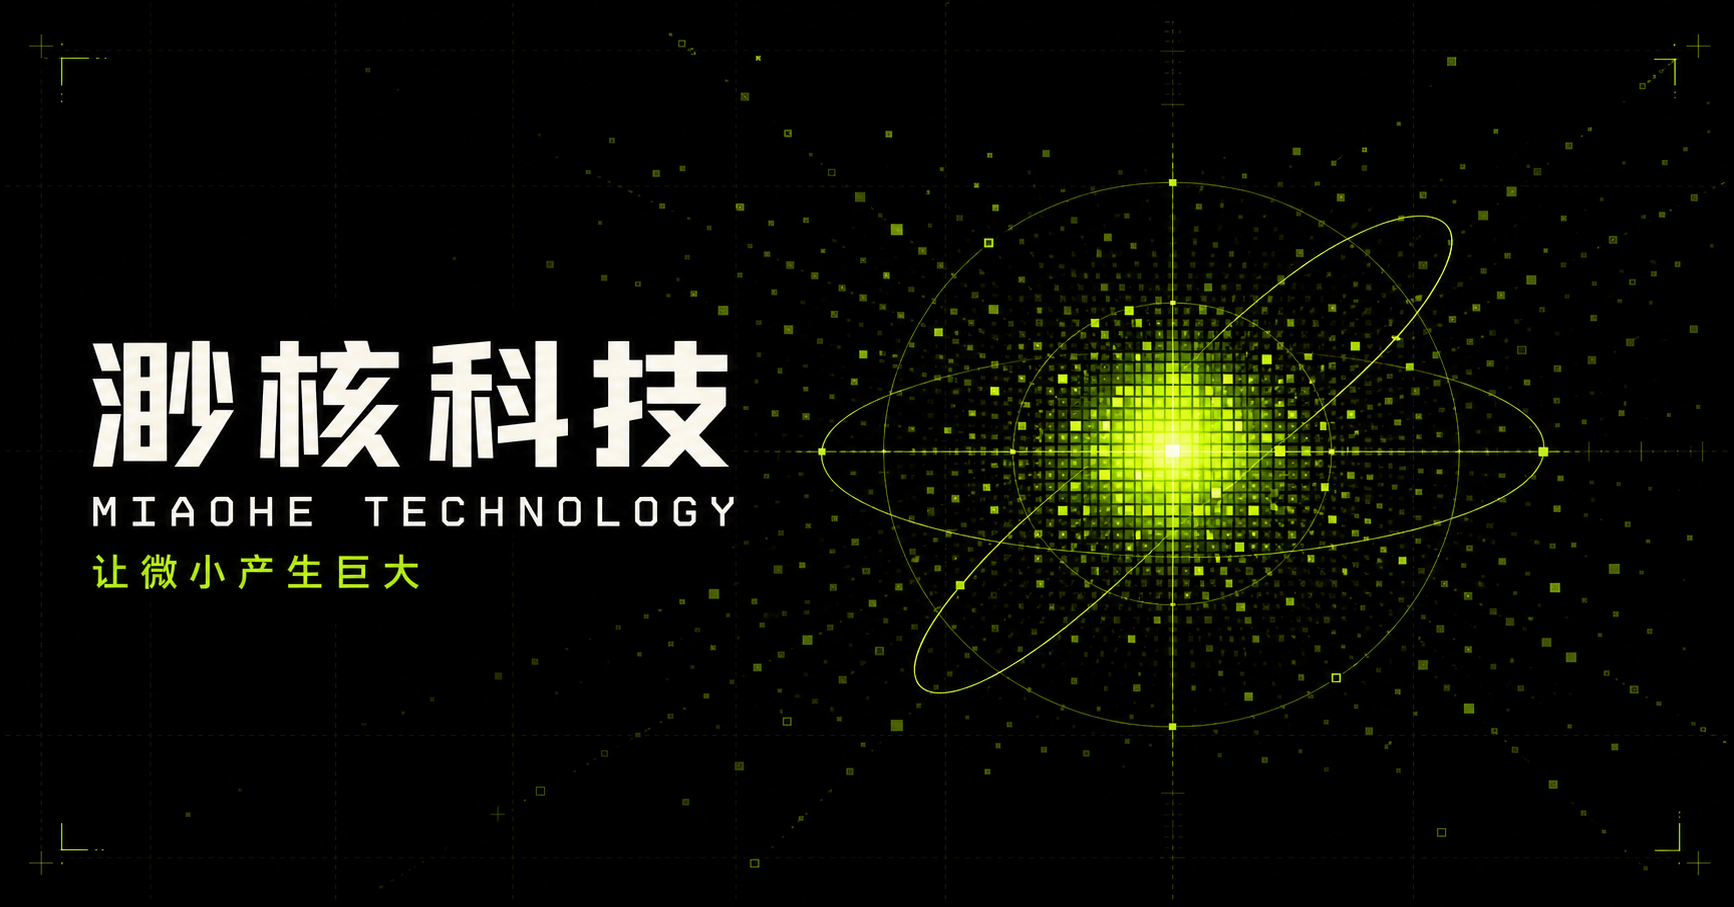
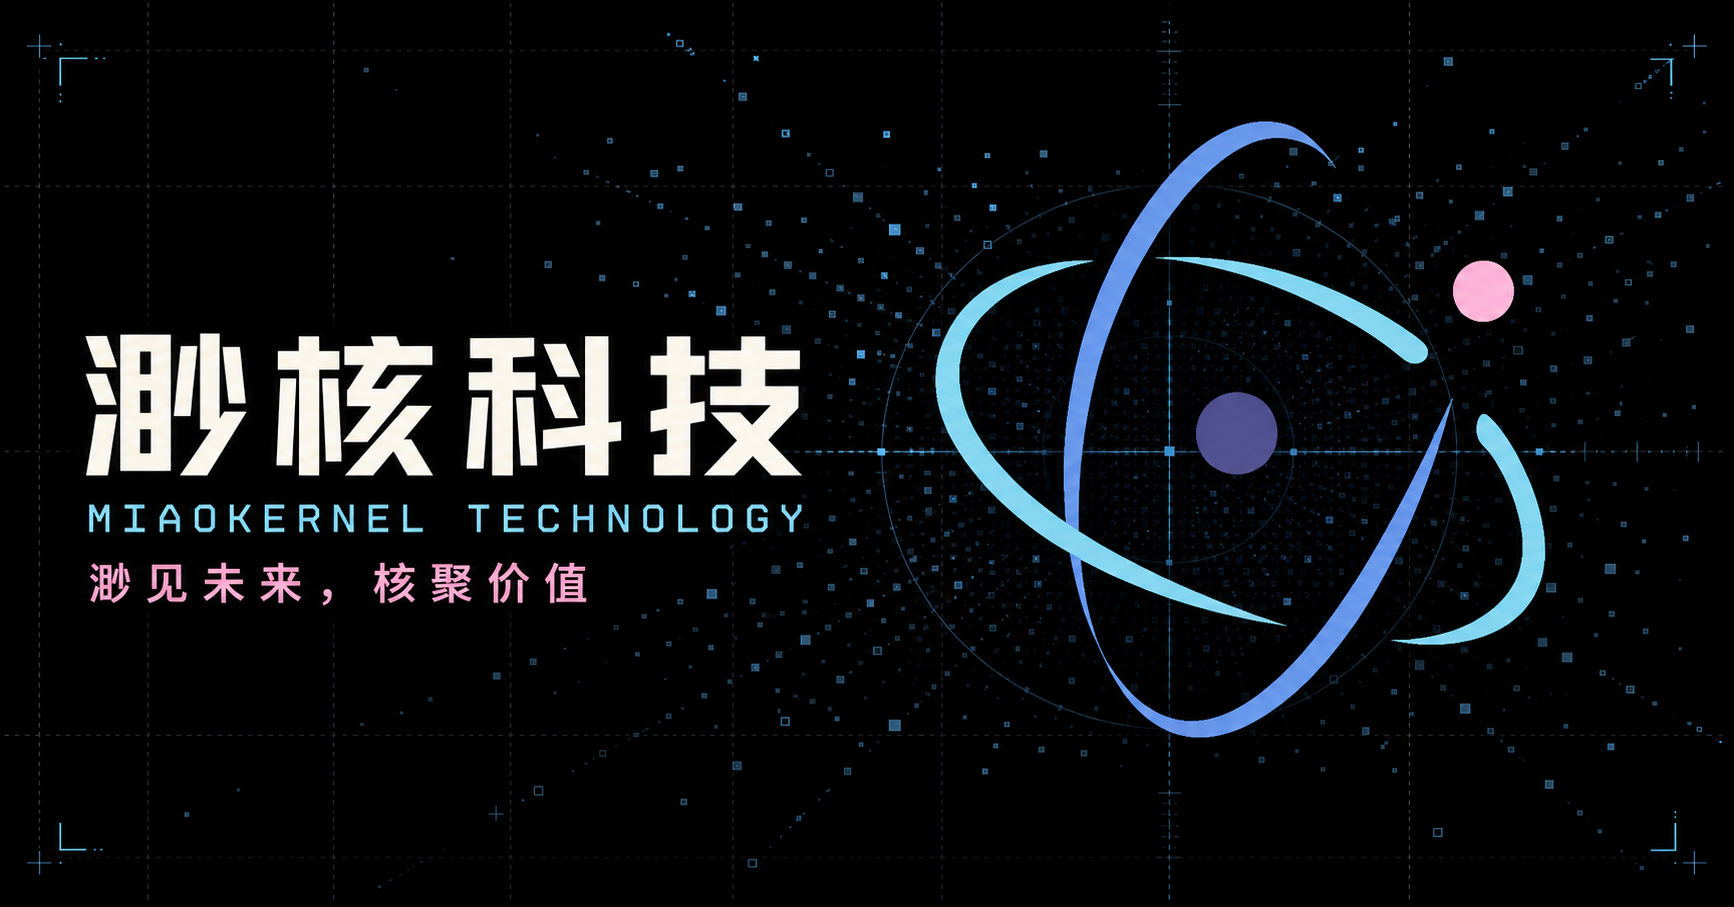
Apply official MiaoKernel branding

diff --git a/app/globals.css b/app/globals.css
@@ -3,7 +3,7 @@
 :root {
   --ink: #050505;
   --paper: #f2f0e9;
-  --lime: #bcff2d;
+  --lime: #90dbf2;
   --line: rgba(255, 255, 255, 0.16);
 }
 
@@ -24,15 +24,14 @@ button { font: inherit; }
   height: 82px;
   padding: 0 4vw;
   color: #fff;
-  mix-blend-mode: difference;
+  border-bottom: 1px solid rgba(255,255,255,.1);
+  background: rgba(5,5,5,.82);
+  backdrop-filter: blur(16px);
 }
 
 .brand { display: inline-flex; align-items: center; gap: 12px; font-size: 16px; font-weight: 700; line-height: 1; letter-spacing: .08em; }
 .brand small { display: block; margin-top: 5px; font-family: Consolas, monospace; font-size: 7px; font-weight: 400; letter-spacing: .18em; opacity: .65; }
-.brand-mark { position: relative; display: grid; width: 27px; height: 27px; grid-template-columns: repeat(3, 1fr); gap: 2px; transform: rotate(45deg); }
-.brand-mark i { background: currentColor; }
-.brand-mark i:nth-child(2) { transform: scale(.5); }
-.brand-mark i:nth-child(3) { transform: scale(.22); }
+.brand-logo { display: block; width: 34px; height: 34px; object-fit: contain; flex: 0 0 auto; }
 
 .site-header nav { display: flex; align-items: center; gap: 34px; font-family: Consolas, monospace; font-size: 11px; letter-spacing: .06em; }
 .site-header nav a { position: relative; padding: 8px 0; }
@@ -45,7 +44,7 @@ button { font: inherit; }
 .hero { position: relative; min-height: 100svh; overflow: hidden; color: #fff; background: var(--ink); }
 .particle-field, .hero-grid { position: absolute; inset: 0; width: 100%; height: 100%; }
 .hero-grid { opacity: .2; background-image: linear-gradient(rgba(255,255,255,.08) 1px, transparent 1px), linear-gradient(90deg, rgba(255,255,255,.08) 1px, transparent 1px); background-size: 42px 42px; mask-image: radial-gradient(circle at 66% 48%, #000, transparent 63%); }
-.hero::before { content: ""; position: absolute; inset: 0; background: radial-gradient(circle at 68% 48%, rgba(188,255,45,.08), transparent 28%), linear-gradient(180deg, transparent 65%, #050505 100%); }
+.hero::before { content: ""; position: absolute; inset: 0; background: radial-gradient(circle at 68% 48%, rgba(144,219,242,.1), transparent 28%), linear-gradient(180deg, transparent 65%, #050505 100%); }
 .hero-copy { position: relative; z-index: 2; display: flex; flex-direction: column; justify-content: space-between; min-height: 100svh; padding: 120px 4vw 64px; }
 .eyebrow { display: flex; justify-content: space-between; font: 10px/1.5 Consolas, monospace; letter-spacing: .12em; text-transform: uppercase; }
 .hero-eyebrow { width: min(570px, 50vw); margin-left: auto; color: rgba(255,255,255,.58); }
@@ -61,12 +60,12 @@ button { font: inherit; }
 .round-link b { font-size: 18px; font-weight: 400; }
 .round-link:hover { color: var(--ink); background: var(--lime); border-color: var(--lime); transform: rotate(-12deg); }
 .orbital-core { position: absolute; z-index: 1; top: 50%; left: 69%; width: clamp(230px, 32vw, 520px); aspect-ratio: 1; transform: translate(-50%,-50%); }
-.orbit { position: absolute; inset: 5%; border: 1px solid rgba(188,255,45,.38); border-radius: 50%; animation: orbitSpin 16s linear infinite; }
+.orbit { position: absolute; inset: 5%; border: 1px solid rgba(144,219,242,.42); border-radius: 50%; animation: orbitSpin 16s linear infinite; }
 .orbit::before, .orbit::after { content: ""; position: absolute; width: 7px; height: 7px; background: var(--lime); box-shadow: 0 0 16px var(--lime); }
 .orbit::before { top: 13%; left: 14%; }
 .orbit::after { right: 7%; bottom: 25%; }
 .orbit-two { inset: 23%; transform: rotate(65deg); border-style: dashed; animation-direction: reverse; animation-duration: 9s; }
-.core-dot { position: absolute; inset: 44%; background: var(--lime); box-shadow: 0 0 45px 12px rgba(188,255,45,.35); animation: corePulse 2.4s ease-in-out infinite; }
+.core-dot { position: absolute; inset: 44%; background: var(--lime); box-shadow: 0 0 45px 12px rgba(144,219,242,.38); animation: corePulse 2.4s ease-in-out infinite; }
 @keyframes orbitSpin { to { transform: rotate(360deg); } }
 @keyframes corePulse { 50% { transform: scale(1.45); opacity: .65; } }
 .ticker { position: absolute; z-index: 3; inset: auto 0 0; overflow: hidden; border-top: 1px solid rgba(255,255,255,.12); color: rgba(255,255,255,.34); font: 9px/30px Consolas, monospace; white-space: nowrap; }
@@ -94,13 +93,13 @@ button { font: inherit; }
 .system-section { position: relative; min-height: 310svh; color: #fff; background: var(--ink); }
 .system-sticky { position: sticky; top: 0; z-index: 1; height: 100svh; overflow: hidden; }
 .system-grid { position: absolute; inset: 0; opacity: .28; background-image: linear-gradient(var(--line) 1px, transparent 1px), linear-gradient(90deg, var(--line) 1px, transparent 1px); background-size: 6.25vw 6.25vw; mask-image: radial-gradient(circle, #000 35%, transparent 75%); }
-.system-sticky::before { content: ""; position: absolute; inset: 0; background: radial-gradient(circle at center, rgba(188,255,45,.08), transparent 35%); }
+.system-sticky::before { content: ""; position: absolute; inset: 0; background: radial-gradient(circle at center, rgba(144,219,242,.1), transparent 35%); }
 .system-core { position: absolute; top: 50%; left: 50%; width: min(44vw, 570px); aspect-ratio: 1; transform: translate(-50%,-50%); transition: transform 1.2s cubic-bezier(.16,1,.3,1); }
-.core-halo { position: absolute; inset: 4%; border: 1px solid rgba(188,255,45,.34); border-radius: 50%; box-shadow: inset 0 0 60px rgba(188,255,45,.03); transition: border-radius .8s, transform .8s; }
+.core-halo { position: absolute; inset: 4%; border: 1px solid rgba(144,219,242,.38); border-radius: 50%; box-shadow: inset 0 0 60px rgba(144,219,242,.04); transition: border-radius .8s, transform .8s; }
 .core-halo::before, .core-halo::after { content: ""; position: absolute; inset: 12%; border: 1px dashed rgba(255,255,255,.2); border-radius: inherit; animation: orbitSpin 20s linear infinite; }
 .core-halo::after { inset: 31%; animation-direction: reverse; animation-duration: 11s; }
 .core-cube { position: absolute; top: 50%; left: 50%; display: grid; grid-template-columns: repeat(5, 1fr); gap: 5px; width: 96px; transform: translate(-50%,-50%) rotate(45deg); transition: transform .8s; }
-.core-cube i { aspect-ratio: 1; background: var(--lime); opacity: calc(.22 + var(--i, .5)); box-shadow: 0 0 9px rgba(188,255,45,.22); }
+.core-cube i { aspect-ratio: 1; background: var(--lime); opacity: calc(.22 + var(--i, .5)); box-shadow: 0 0 9px rgba(144,219,242,.25); }
 .core-cube i:nth-child(3n) { opacity: .3; }
 .core-cube i:nth-child(4n) { transform: scale(.45); }
 .core-cross { position: absolute; top: 50%; left: 50%; background: rgba(255,255,255,.18); }
@@ -138,8 +137,8 @@ button { font: inherit; }
 @keyframes marquee { to { transform: translateX(-50%); } }
 
 .contact { position: relative; min-height: 100svh; overflow: hidden; padding: 110px 4vw 38px; color: #fff; background: var(--ink); }
-.contact-glow { position: absolute; right: -8vw; bottom: -20vw; width: 62vw; aspect-ratio: 1; border: 1px solid rgba(188,255,45,.3); border-radius: 50%; box-shadow: 0 0 160px rgba(188,255,45,.08), inset 0 0 90px rgba(188,255,45,.04); }
-.contact-glow::before, .contact-glow::after { content: ""; position: absolute; inset: 18%; border: 1px dashed rgba(188,255,45,.18); border-radius: 50%; animation: orbitSpin 28s linear infinite; }
+.contact-glow { position: absolute; right: -8vw; bottom: -20vw; width: 62vw; aspect-ratio: 1; border: 1px solid rgba(144,219,242,.32); border-radius: 50%; box-shadow: 0 0 160px rgba(144,219,242,.1), inset 0 0 90px rgba(144,219,242,.05); }
+.contact-glow::before, .contact-glow::after { content: ""; position: absolute; inset: 18%; border: 1px dashed rgba(144,219,242,.2); border-radius: 50%; animation: orbitSpin 28s linear infinite; }
 .contact-glow::after { inset: 37%; }
 .contact-top { position: relative; display: flex; justify-content: space-between; padding-bottom: 22px; border-bottom: 1px solid rgba(255,255,255,.22); color: rgba(255,255,255,.55); font: 10px Consolas, monospace; }
 .contact-main { position: relative; display: flex; flex-direction: column; justify-content: center; min-height: 65vh; }

diff --git a/app/page.tsx b/app/page.tsx
@@ -85,7 +85,7 @@ function ParticleField() {
           particle.x = Math.random() * width;
         }
         const glow = Math.max(0, 1 - distance / Math.max(width, height));
-        ctx.fillStyle = `rgba(188, 255, 45, ${particle.alpha * (0.55 + glow)})`;
+        ctx.fillStyle = `rgba(144, 219, 242, ${particle.alpha * (0.55 + glow)})`;
         ctx.fillRect(
           Math.round(particle.x),
           Math.round(particle.y),
@@ -155,14 +155,10 @@ export default function Home() {
     <main>
       <header className="site-header">
         <a className="brand" href="#top" aria-label="渺核科技首页" onClick={closeMenu}>
-          <span className="brand-mark" aria-hidden="true">
-            <i />
-            <i />
-            <i />
-          </span>
+          <img className="brand-logo" src="/miaokernel-logo.svg" alt="" aria-hidden="true" />
           <span>
             渺核科技
-            <small>MIAOHE TECHNOLOGY</small>
+            <small>MIAOKERNEL TECHNOLOGY</small>
           </span>
         </a>
         <button
@@ -194,11 +190,11 @@ export default function Home() {
         <div className="hero-copy">
           <div className="eyebrow hero-eyebrow">
             <span>东莞 · 中国</span>
-            <span>科技，让微小产生巨大</span>
+            <span>MIAOKERNEL / TECHNOLOGY</span>
           </div>
           <h1>
-            <span>微小之核</span>
-            <span className="outline-text">无限协同</span>
+            <span>渺见未来</span>
+            <span className="outline-text">核聚价值</span>
           </h1>
           <div className="hero-bottom">
             <p>
@@ -221,7 +217,7 @@ export default function Home() {
       <section id="about" className="statement section-light">
         <div className="section-label" data-reveal>
           <span>[ 01 ]</span>
-          <span>ABOUT MIAOHE</span>
+          <span>ABOUT MIAOKERNEL</span>
           <span>关于渺核</span>
         </div>
         <div className="statement-title" data-reveal>
@@ -295,7 +291,7 @@ export default function Home() {
       </section>
 
       <section className="marquee-section" aria-label="品牌宣言">
-        <div className="marquee-line">MIAOHE · FROM SIGNAL TO SYSTEM · 渺核科技 · FROM SIGNAL TO SYSTEM ·&nbsp;</div>
+        <div className="marquee-line">MIAOKERNEL · FROM SIGNAL TO SYSTEM · 渺核科技 · FROM SIGNAL TO SYSTEM ·&nbsp;</div>
         <div className="marquee-line reverse">BUILD THE UNSEEN · CREATE THE POSSIBLE · 构建未见 · 创造可能 ·&nbsp;</div>
       </section>
 
@@ -314,12 +310,12 @@ export default function Home() {
         </div>
         <footer>
           <div className="brand footer-brand">
-            <span className="brand-mark" aria-hidden="true"><i /><i /><i /></span>
-            <span>渺核科技<small>MIAOHE TECHNOLOGY</small></span>
+            <img className="brand-logo" src="/miaokernel-logo.svg" alt="" aria-hidden="true" />
+            <span>渺核科技<small>MIAOKERNEL TECHNOLOGY</small></span>
           </div>
           <div>
             <span>东莞市渺核科技有限公司</span>
-            <span>© 2026 MIAOHE TECHNOLOGY</span>
+            <span>© 2026 MIAOKERNEL TECHNOLOGY</span>
           </div>
         </footer>
       </section>

diff --git a/app/layout.tsx b/app/layout.tsx
@@ -10,19 +10,19 @@ export async function generateMetadata(): Promise<Metadata> {
 
   return {
     metadataBase: new URL(origin),
-    title: "渺核科技｜让微小产生巨大",
-    description: "东莞市渺核科技有限公司，以工程与产品创新连接感知、计算与行动。",
-    icons: { icon: "/favicon.svg", shortcut: "/favicon.svg" },
+    title: "渺核科技｜渺见未来，核聚价值",
+    description: "东莞市渺核科技有限公司——渺见未来，核聚价值。",
+    icons: { icon: "/miaokernel-logo.svg", shortcut: "/miaokernel-logo.svg" },
     openGraph: {
-      title: "渺核科技｜让微小产生巨大",
-      description: "从一个细微的信号开始，连接感知、计算与行动。",
+      title: "渺核科技｜渺见未来，核聚价值",
+      description: "渺见未来，核聚价值。",
       type: "website",
       images: [{ url: `${origin}/og.png`, width: 1792, height: 896, alt: "渺核科技" }],
     },
     twitter: {
       card: "summary_large_image",
-      title: "渺核科技｜让微小产生巨大",
-      description: "从一个细微的信号开始，连接感知、计算与行动。",
+      title: "渺核科技｜渺见未来，核聚价值",
+      description: "渺见未来，核聚价值。",
       images: [`${origin}/og.png`],
     },
   };
